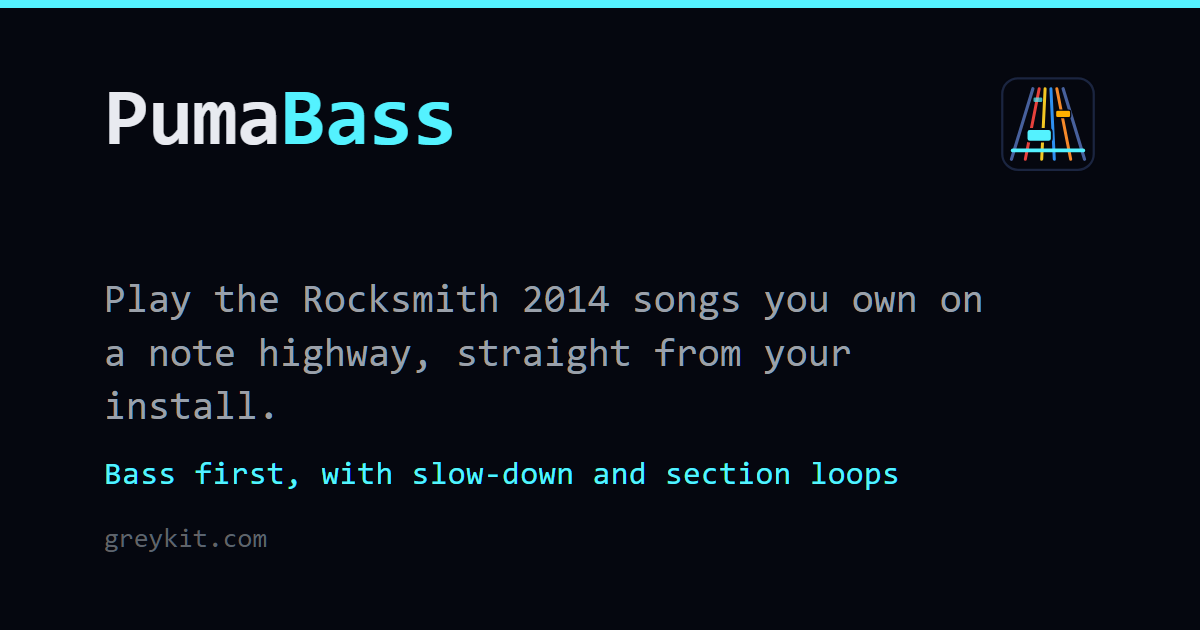
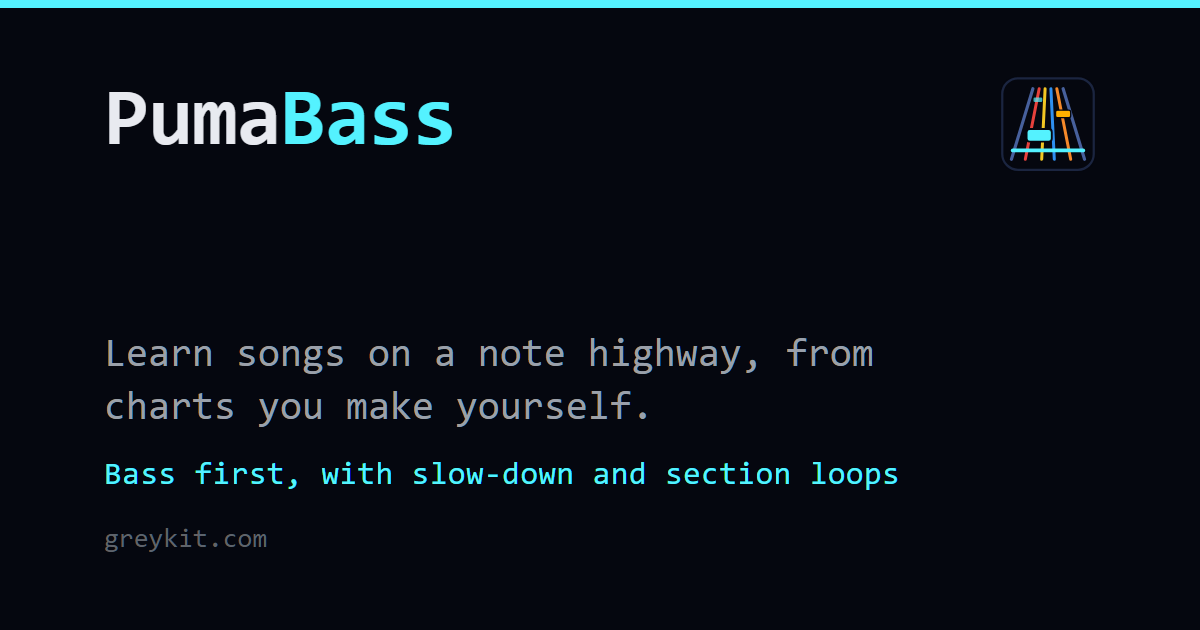
Making your own songs comes first: a guide, in the game and in the docs
Help has a Make your own tab: chart in Editor on Fire, pack with DLC
Builder (Wwise converts the audio), drop the .psarc in music/. The song
list's empty states, Settings and About open or point to it. Wherever
PumaBass says where songs come from, the order is your own, then
CustomsForge, then Rocksmith 2014's, last: the song list tabs, Help, the
web demo's popup, the README, PRODUCT.md, the page and app descriptions
and the share card. MAKING-SONGS.md is the full walkthrough.

A third preview server, on 8018, for when 8015 and 8016 are taken.

Changed region(s): [[0.0617, 0.5429, 0.74, 0.6635], [0.0617, 0.4524, 0.8325, 0.5127]]

diff --git a/web/js/help.js b/web/js/help.js
@@ -5,6 +5,16 @@ const keys = rows => `<table class="keys">${rows.map(([k, v]) => `<tr><td>${k}</
 // Each tab fits the TV without scrolling: two columns in a wide box (style.css: .help-cols).
 const cols = (left, right) => `<div class="help-cols"><div>${left}</div><div>${right}</div></div>`;
 
+// Making your own songs is what PumaBass is for; downloads come next, Rocksmith's own songs last.
+// The song list and Settings open Help at this tab (openHelp(MAKE)).
+export const MAKE = 'Make your own';
+const LINKS = {
+  eof: 'https://ignition4.customsforge.com/eof',
+  dlcBuilder: 'https://github.com/iminashi/Rocksmith2014.NET/releases',
+  wwise: 'https://www.audiokinetic.com/download/',
+  customsforge: 'https://customsforge.com/',
+};
+
 export const HELP = [
   ['Playing', cols(`
 <h3>Getting going</h3>
@@ -156,18 +166,39 @@ ${keys([
 zigzags for tremolo. A box round notes: play them together; an empty box, the same chord again (a bow tie or
 cross in it: palm-muted or fret-hand-muted). A faint tunnel behind a chord: keep holding its shape; brackets on
 the strings: an arpeggio, that shape picked a note at a time.</p>`)],
+  [MAKE, cols(`
+<p>The best songs to learn from are the ones you chart yourself: any song you have a recording of, written down
+the way you play it. Two free programs turn it into a song file (<code>.psarc</code>) for PumaBass.</p>
+<h3>1. Chart it: Editor on Fire</h3>
+<p><a href="${LINKS.eof}" target="_blank" rel="noopener">EOF</a> (Windows and Mac). Load your recording, line the
+beat up with it, and put the bass notes on the <b>PART REAL_BASS</b> track, by hand or from a Guitar Pro tab. In
+its preferences, turn on <b>Save separate Rocksmith 2 files</b>: saving then writes the part as an XML file.</p>
+<h3>2. Pack it: DLC Builder</h3>
+<p><a href="${LINKS.dlcBuilder}" target="_blank" rel="noopener">DLC Builder</a> (Windows, Mac and Linux). Give it
+the XML, your recording, a cover picture, the title and artist, and build: out comes the <code>.psarc</code>.
+It makes the simpler versions of each phrase that <b>Notes</b> plays, too.</p>`, `
+<h3>Before you pack: Wwise</h3>
+<p>DLC Builder converts your recording with <a href="${LINKS.wwise}" target="_blank" rel="noopener">Wwise</a>,
+free from Audiokinetic (versions 2019 to 2023). Install only its <b>Authoring</b> package, and run it once.</p>
+<h3>3. Play it</h3>
+<p>Put the <code>.psarc</code> in PumaBass's <code>music</code> folder and press <b>Rescan</b>: it's on the
+<b>Music</b> tab. Notes early or late against the record? Fix the beat in EOF and pack it again.</p>
+<h3>Or download songs</h3>
+<p>Short of time? <a href="${LINKS.customsforge}" target="_blank" rel="noopener">CustomsForge</a> has songs other
+people charted: they go in the <code>cdlc</code> folder. PumaBass is also compatible with Rocksmith 2014's own song
+files (<b>Your songs</b>).</p>`)],
   ['Your songs', cols(`
 <h3>Three folders, three libraries</h3>
-<p>PumaBass plays Rocksmith 2014 song files (<code>.psarc</code>) from three folders beside it, each a tab on
-the song list:</p>
+<p>PumaBass plays song files (<code>.psarc</code>) from three folders beside it, each a tab on the song
+list:</p>
 ${keys([
-    ['bundles', 'Rocksmith\'s own song sets: the disc songs, the Rocksmith 1 packs'],
-    ['cdlc', 'custom songs you download, from CustomsForge say'],
-    ['music', 'songs you made, and recordings for charts with no audio'],
+    ['music', 'songs you made (<b>Make your own</b>), and recordings for charts with no audio'],
+    ['cdlc', 'songs you download, from CustomsForge say'],
+    ['bundles', 'Rocksmith 2014\'s own song sets: the disc songs, the Rocksmith 1 packs'],
   ])}
 <p>Folders inside them are read too. Press <b>Rescan</b> (under the song list, or in Settings) after adding
 songs. A song in two places is listed once.</p>
-<p>The disc songs need both <code>songs.psarc</code> (their charts) and <code>audio.psarc</code> (their
+<p>Rocksmith's disc songs need both <code>songs.psarc</code> (their charts) and <code>audio.psarc</code> (their
 audio).</p>
 <h3>The demo song</h3>
 <p><b>Prowl</b>, on the <b>Demo</b> tab, comes with PumaBass: a riff written for it, to play before your own
@@ -186,6 +217,7 @@ then; the button at its foot shows them.</p>`)],
 
 export const ABOUT = `
 <p><b>PumaBass</b> is a RockSmith-style tabulature player. At its core, it takes tab notation, turns it sideways,
-and synchronizes it to the music. You can use CustomsForge PSARC files or make your own using a simple synchronizer.
+and synchronizes it to the music. Make your own PSARC files (<b>Help &rarr; Make your own</b>) or download them
+from CustomsForge; it's also compatible with Rocksmith 2014's.
 It can also "score" your playing, if you really like being judged by a machine.</p>
 <p class="gk-credit">Developed entirely with Claude Code. Built by <a href="https://greykit.com/" target="_blank" rel="noopener">greykit.com</a></p>`;

diff --git a/web/js/library-screen.js b/web/js/library-screen.js
@@ -5,6 +5,7 @@ import { alertSheet } from './title.js';
 import { api, WEB, SERVER_API, notInDemo } from './api.js';
 import { $, esc, toast, screen, songs, info, setScreen, setLibrary, ownSongs } from './core.js';
 import { DEMO } from './demo.js';
+import { MAKE } from './help.js';
 import { showTuner } from './instrument.js';
 import { showTitle, leaveTitle, openHelp, openSettings, partsLabel } from './menu.js';
 import { openSong, scoreMode } from './player.js';
@@ -131,9 +132,9 @@ export function showSongInList(id) {
  * tab (your own Rocksmith folder: none until you choose one); All always does. */
 export const LIBRARIES = [
   ['all', 'All'],
-  ['bundles', 'Bundles', 'Rocksmith song sets'],
-  ['cdlc', 'CDLC', 'custom songs you download'],
   ['music', 'Music', 'songs you made, and your recordings'],
+  ['cdlc', 'CDLC', 'custom songs you download'],
+  ['bundles', 'Bundles', 'Rocksmith 2014 song sets'],
   ['folder', 'Rocksmith folder', 'the Rocksmith folder chosen in Settings'],
   ['demo', 'Demo', 'the song that comes with PumaBass'],
 ];
@@ -194,7 +195,7 @@ export function renderLibrary() {
   const keepId = keep && keep.dataset.id, keepShelf = keep && keep.classList.contains('shelved');
   const lib = LIBRARIES.find(([k]) => k === prefs.library);
   el.innerHTML = list.length ? '' : !songs.length
-    ? `<div class="empty"><p>No songs yet. PumaBass plays Rocksmith 2014 song files (<code>.psarc</code>). Put them in its <code>bundles</code>, <code>cdlc</code> or <code>music</code> folder and Rescan, or show it a Rocksmith folder.</p><button class="primary" data-act="choose">Choose a Rocksmith folder</button></div>`
+    ? `<div class="empty"><p>No songs yet. Make your own song files (<code>.psarc</code>) and put them in PumaBass's <code>music</code> folder, or download some into <code>cdlc</code>, then Rescan. It's also compatible with Rocksmith 2014's: put them in <code>bundles</code>, or show it a Rocksmith folder.</p><button class="primary" data-act="make">Make your own songs</button> <button data-act="choose">Choose a Rocksmith folder</button></div>`
     : `<div class="empty">${q ? 'No songs match that search.' : prefs.favOnly ? 'No favorites here yet. Press <kbd>F</kbd> on a song, or its heart, to add it.'
       : prefs.library !== 'all' && !ofType.length
         ? `None of the songs in ${esc(lib[1])} have ${esc(prefs.type)} parts. Choose All parts above, or another library.`
@@ -238,8 +239,8 @@ export function renderLibrary() {
     const hint = document.createElement('div');
     hint.className = 'empty';
     hint.innerHTML = WEB
-      ? `<p>This is PumaBass's web demo, with one song written for it. On your own computer, PumaBass plays PSARC song packages that you make or provide, and can be pointed at your Rocksmith 2014 folder.</p><button class="primary" data-act="choose">Choose a Rocksmith folder</button>`
-      : `<p>That's the demo song, to play while you set up. PumaBass plays Rocksmith 2014 song files (<code>.psarc</code>) too: put them in its <code>bundles</code>, <code>cdlc</code> or <code>music</code> folder and Rescan, or show it a Rocksmith folder.</p><button class="primary" data-act="choose">Choose a Rocksmith folder</button>`;
+      ? `<p>This is PumaBass's web demo, with one song written for it. On your own computer, PumaBass plays song files (<code>.psarc</code>) that you make yourself, and is also compatible with CustomsForge and Rocksmith 2014 songs.</p><button class="primary" data-act="make">Make your own songs</button>`
+      : `<p>That's the demo song, to play while you set up. Make your own song files (<code>.psarc</code>) and put them in PumaBass's <code>music</code> folder, or download some into <code>cdlc</code>, then Rescan. It's also compatible with Rocksmith 2014's: put them in <code>bundles</code>, or show it a Rocksmith folder.</p><button class="primary" data-act="make">Make your own songs</button> <button data-act="choose">Choose a Rocksmith folder</button>`;
     frag.appendChild(hint);
   }
   el.appendChild(frag);
@@ -266,6 +267,7 @@ export function heartRow(row) {
 }
 
 $('song-list').addEventListener('click', e => {
+  if (e.target.closest('[data-act=make]')) return openHelp(MAKE);
   if (e.target.closest('[data-act=choose]')) return pickLibrary();
   if (e.target.closest('[data-fav]')) { heartRow(e.target.closest('.song')); return; }
   const row = e.target.closest('.song');

diff --git a/web/js/menu.js b/web/js/menu.js
@@ -3,7 +3,7 @@
 import { formatTime } from './chart.js';
 import { mountTitle, alertSheet, confirmSheet } from './title.js';
 import { mountScene } from './scene.js';
-import { HELP, ABOUT } from './help.js';
+import { HELP, ABOUT, MAKE } from './help.js';
 import { api, WEB, notInDemo } from './api.js';
 import { $, highway, esc, fmtMs, songs, ownSongs, info, setScreen } from './core.js';
 import { inputStatus, chooseInput, showTuner } from './instrument.js';
@@ -165,7 +165,7 @@ export function settingsHTML() {
   // Two columns, so it all fits on the TV without scrolling (style.css: .set-cols): what
   // PumaBass is set up with, and how you like to play. Forget everything on its own at the foot.
   return `<div class='set-cols'><section class='set-col'><h3>App</h3><div class='set-grid'>
-${row('Songs', `<p class='set-val'>${have}, from the bundles, cdlc and music folders${info.libraryDir ? ' and your Rocksmith folder' : ''}</p><p class='set-val'>${folder}</p><div class='gk-row' title='Song files (.psarc) go in the bundles, cdlc or music folder beside PumaBass. A Rocksmith 2014 folder of your own is optional: its songs get their own tab. Rescan after adding songs.'><button data-set='rescan'>Rescan</button><button data-set='library'>${info.libraryDir ? 'Change Rocksmith folder' : 'Choose Rocksmith folder'}</button>${info.libraryDir ? "<button data-set='unlibrary'>Remove it</button>" : ''}</div>`)}
+${row('Songs', `<p class='set-val'>${have}, from the music, cdlc and bundles folders${info.libraryDir ? ' and your Rocksmith folder' : ''}</p><p class='set-val'>${folder}</p><div class='gk-row' title='Song files (.psarc) you make go in the music folder beside PumaBass, downloads in cdlc. Rocksmith 2014 songs work too: in bundles, or a Rocksmith folder of your own on its own tab. Rescan after adding songs.'><button data-set='make'>Make your own</button><button data-set='rescan'>Rescan</button><button data-set='library'>${info.libraryDir ? 'Change Rocksmith folder' : 'Choose Rocksmith folder'}</button>${info.libraryDir ? "<button data-set='unlibrary'>Remove it</button>" : ''}</div>`)}
 ${row('Input', `<p class='set-val'>${inputStatus()}</p><div class='gk-row'><button data-set='input'>Choose input</button></div>`)}
 ${row('Tuner', `<div class='gk-row'><button data-set='tuner' title='Tune to the song with the Real Tone Cable; it opens by itself when a song needs another tuning'>Open tuner</button></div>`)}
 ${row('Sync', `<div class='gk-row'><button data-set='sync' title='Line up the sound and the picture, and the cable'>Run sync</button><span class='set-val inline'>${
@@ -226,6 +226,10 @@ export async function settingsClick(b, sheet) {
         await loadLibrary();
       } catch (e) { sheet.close(); await alertSheet(e.message, "Can't remove the Rocksmith folder"); return; }
       break;
+    case 'make':
+      sheet.close();
+      openHelp(MAKE);
+      return;
     case 'input':
       sheet.close();
       chooseInput();
@@ -307,8 +311,8 @@ function openSheet(name, draw, onClick) {
 }
 
 /* Help from the song list or the player. */
-export function openHelp() {
-  let tab = 0;
+export function openHelp(start) {
+  let tab = Math.max(0, HELP.findIndex(([t]) => t === start));
   const sheet = openSheet('Help', () => `<div class="gk-tabs" role="tablist">${HELP.map(([t], i) => `<button role="tab" data-tab="${i}" aria-selected="${i === tab}" aria-pressed="${i === tab}">${esc(t)}</button>`).join('')}</div>
       <div class="gk-body">${HELP[tab][1]}</div>`, (b, sh) => {
     if (b.dataset.tab !== undefined) { tab = Number(b.dataset.tab); sh.refresh(); sh.el.querySelector(`[data-tab="${tab}"]`).focus(); }

diff --git a/index.html b/index.html
@@ -4,23 +4,23 @@
 <meta charset="utf-8">
 <meta name="viewport" content="width=device-width,initial-scale=1,viewport-fit=cover">
 <title>PumaBass</title>
-<meta name="description" content="Play the Rocksmith 2014 songs you own on a note highway, straight from your install: bass first, with slow-down, section loops and Rocksmith&#x27;s own difficulty levels.">
+<meta name="description" content="Learn songs on a note highway, from charts you make yourself: bass first, with slow-down, section loops and difficulty levels. Also plays CustomsForge and Rocksmith 2014 song files.">
 <meta name="theme-color" content="#05070f">
 <meta name="color-scheme" content="dark">
 <meta name="referrer" content="no-referrer">
 <meta property="og:title" content="PumaBass">
-<meta property="og:description" content="Play the Rocksmith 2014 songs you own on a note highway, straight from your install: bass first, with slow-down, section loops and Rocksmith&#x27;s own difficulty levels.">
+<meta property="og:description" content="Learn songs on a note highway, from charts you make yourself: bass first, with slow-down, section loops and difficulty levels. Also plays CustomsForge and Rocksmith 2014 song files.">
 <meta property="og:type" content="website">
 <meta property="og:image" content="https://greykit.com/games/pumabass/og.png">
 <meta property="og:image:width" content="1200">
 <meta property="og:image:height" content="630">
-<meta property="og:image:alt" content="Play the Rocksmith 2014 songs you own on a note highway, straight from your install: bass first, with slow-down, section loops and Rocksmith&#x27;s own difficulty levels.">
+<meta property="og:image:alt" content="Learn songs on a note highway, from charts you make yourself: bass first, with slow-down, section loops and difficulty levels. Also plays CustomsForge and Rocksmith 2014 song files.">
 <meta property="og:url" content="https://greykit.com/games/pumabass/">
 <meta name="twitter:card" content="summary_large_image">
 <meta name="twitter:title" content="PumaBass">
-<meta name="twitter:description" content="Play the Rocksmith 2014 songs you own on a note highway, straight from your install: bass first, with slow-down, section loops and Rocksmith&#x27;s own difficulty levels.">
+<meta name="twitter:description" content="Learn songs on a note highway, from charts you make yourself: bass first, with slow-down, section loops and difficulty levels. Also plays CustomsForge and Rocksmith 2014 song files.">
 <meta name="twitter:image" content="https://greykit.com/games/pumabass/og.png">
-<meta name="twitter:image:alt" content="Play the Rocksmith 2014 songs you own on a note highway, straight from your install: bass first, with slow-down, section loops and Rocksmith&#x27;s own difficulty levels.">
+<meta name="twitter:image:alt" content="Learn songs on a note highway, from charts you make yourself: bass first, with slow-down, section loops and difficulty levels. Also plays CustomsForge and Rocksmith 2014 song files.">
 <link rel="manifest" href="manifest.webmanifest">
 <link rel="apple-touch-icon" href="apple-touch-icon.png">
 <link rel="icon" type="image/svg+xml" href="icon.svg">

diff --git a/web/js/api.js b/web/js/api.js
@@ -8,7 +8,7 @@ import { alertSheet } from './title.js';
  * (notInDemo); Quit isn't there at all. */
 export const WEB = typeof document !== 'undefined' && document.documentElement.dataset.edition === 'web';
 export function notInDemo(what) {
-  return alertSheet(`${what} isn't in the web demo. On your own computer, PumaBass plays PSARC song packages that you make or provide, and can be pointed at your Rocksmith 2014 folder.`, 'Not available in the demo');
+  return alertSheet(`${what} isn't in the web demo. On your own computer, PumaBass plays song files (PSARC) that you make yourself, and is also compatible with CustomsForge and Rocksmith 2014 songs.`, 'Not available in the demo');
 }
 
 

diff --git a/MAKING-SONGS.md b/MAKING-SONGS.md
@@ -1,0 +1,69 @@
+# Making your own songs
+
+PumaBass is made for playing songs you chart yourself: any song you have a recording of, written down
+the way you want to learn it. A song for PumaBass is one file, a `.psarc`, holding the chart and the
+audio. Two free programs make one, the same two the custom-song community uses:
+
+| Step | Program | Runs on | Does |
+| --- | --- | --- | --- |
+| 1 | [Editor on Fire](https://ignition4.customsforge.com/eof) (EOF) | Windows, Mac | charting: you place the notes against the recording |
+| 2 | [DLC Builder](https://github.com/iminashi/Rocksmith2014.NET/releases) | Windows, Mac, Linux | packing: chart + audio + cover + names into a `.psarc` |
+| – | [Wwise](https://www.audiokinetic.com/download/) (Audiokinetic) | Windows (Linux via Wine) | used by DLC Builder to convert the audio; free |
+
+In the game, **Help → Make your own** has the short version of these steps, and **Make your own songs**
+on the song list opens it.
+
+## Before you start
+
+- **A recording** of the song: wav, ogg or mp3.
+- **The part**: by ear, or a tab to start from. EOF imports Guitar Pro files (`.gp3`–`.gp5`, `.gpx`).
+- **A cover picture**, square, ideally 256×256 or larger: `cover.png`.
+- **Wwise**, version 2019, 2021, 2022 or 2023. In the Audiokinetic Launcher, install only the
+  **Authoring** package, then open Wwise once; DLC Builder's audio conversion may not work until you
+  have. DLC Builder finds it on its own on Windows; on Linux it runs Wwise's console program under
+  Wine (set its path in DLC Builder's configuration).
+
+## 1. Chart it in Editor on Fire
+
+1. Create a new project from your recording.
+2. **Make a tempo map**: line EOF's beat markers up with the beats of the recording. This is what keeps
+   the notes in time with the music, so take care over it; a song with a steady tempo needs only the
+   first beat placed and the tempo set.
+3. Choose the **PART REAL_BASS** track and place the notes: string and fret for each, with slides,
+   bends, hammer-ons, mutes and the rest where you play them. Or import a Guitar Pro tab into that
+   track and correct it.
+4. Mark the **sections** (intro, verse, chorus, solo…). PumaBass's bar along the bottom, its loops and
+   the riff repeater all work by section.
+5. In EOF's Import/Export preferences, turn on **Save separate Rocksmith 2 files**. Saving the project
+   now also writes the bass part as a Rocksmith 2014 arrangement, an `.xml` file in the project folder.
+
+## 2. Pack it in DLC Builder
+
+1. Start a new project. Fill in the title, artist, album and year: PumaBass's song list shows them.
+2. **Add the arrangement**: the bass `.xml` from EOF's project folder. Check that it's a Bass
+   arrangement, with the tuning you played in.
+3. **Audio**: your recording. DLC Builder converts it with Wwise, and can make the short preview clip
+   too.
+4. **Cover**: `cover.png`.
+5. The **tone** matters only to Rocksmith: PumaBass plays your bass as it comes from the cable, so
+   whatever DLC Builder starts you with is fine.
+6. **Build a release.** The packages land in the project folder, a PC one (`_p.psarc`) and a Mac one
+   (`_m.psarc`); either plays. DLC Builder also writes the simpler difficulty levels if the chart has
+   none, which PumaBass's **Notes** slider uses.
+
+Save the DLC Builder project beside the EOF one: after fixing the chart, a rebuild is open, build.
+
+## 3. Play it
+
+Put the `.psarc` in PumaBass's `music/` folder and press **Rescan**. It's on the **Music** tab.
+
+- Notes early or late all the way through: run **Sync** first, as that is your speakers and screen.
+  Early or late for this song alone: fix the tempo map in EOF and build again, or nudge the song's
+  audio offset in the Mix (`M`).
+- Notes drift out of time partway: the tempo map is off there. Fix those beats in EOF.
+
+## Or download songs
+
+Short of time? [CustomsForge](https://customsforge.com/) has songs other people have charted. Put them
+in `cdlc/`. PumaBass is also compatible with Rocksmith 2014's own song files: see
+[Add your songs](README.md#add-your-songs) in the README.

diff --git a/README.md b/README.md
@@ -1,9 +1,11 @@
 # PumaBass
 
-Play the Rocksmith 2014 songs you already own on a note highway, without Steam or Rocksmith. Bass
-first; lead and rhythm guitar parts play too. You give PumaBass your own song files (`.psarc`) and it
-plays them in your browser; until then, there's a demo song written for it to play. Runs on Windows
-and Linux, from a desk or from the couch on a TV. Built by [greykit.com](https://greykit.com).
+Learn songs on a note highway, from charts you make yourself. Bass first; lead and rhythm guitar parts
+play too. Chart any song you have a recording of with free tools, and PumaBass plays it in your browser,
+in time with the music ([Making your own songs](MAKING-SONGS.md)); until then, there's a demo song
+written for it to play. It also plays songs downloaded from CustomsForge, and is compatible with
+Rocksmith 2014's song files. Runs on Windows and Linux, from a desk or from the couch on a TV. Built by
+[greykit.com](https://greykit.com).
 
 **Try the demo in your browser** at [greykit.com/games/pumabass](https://greykit.com/games/pumabass/),
 with nothing to install.
@@ -54,12 +56,16 @@ below 50% it's quarter notes, for a first go.
 
 ![The song list sorted by plays: All, Bundles and CDLC tabs, the Bass part chosen, each song with its difficulty bars, tuning, plays, times finished and length, and a heart on the favorites](screenshots/songs.png)
 
-Put your Rocksmith 2014 song files in these folders beside PumaBass. Each gets its own tab on the song
-list once it has songs:
+**Make your own.** Chart a song in Editor on Fire and pack it with DLC Builder, both free:
+[MAKING-SONGS.md](MAKING-SONGS.md) walks through it. In the game, **Help → Make your own** has the short
+version.
 
-- `bundles/`: Rocksmith's own song sets, such as the on-disc songs and the Rocksmith 1 import packs.
-- `cdlc/`: custom songs you download, such as from CustomsForge.
+Song files (`.psarc`) go in these folders beside PumaBass. Each gets its own tab on the song list once
+it has songs:
+
 - `music/`: songs you made, and recordings for charts that have no audio (below).
+- `cdlc/`: songs you download, such as from CustomsForge.
+- `bundles/`: Rocksmith 2014's own song sets, such as the on-disc songs and the Rocksmith 1 import packs.
 
 Or point PumaBass at a Rocksmith folder you already have (a whole Rocksmith install, a copied `dlc`
 folder, a USB stick) in **Settings → Songs**; it gets a tab of its own, and nothing in it is changed.
@@ -67,7 +73,7 @@ Folders inside these folders are read too, and a song in more than one place is 
 **Rescan** after adding songs.
 
 - PC (`_p.psarc`) and Mac (`_m.psarc`) files both work.
-- The songs on the Rocksmith disc keep their charts in `songs.psarc` and their audio in
+- Rocksmith's disc songs keep their charts in `songs.psarc` and their audio in
   `audio.psarc`: copy both.
 - The Rocksmith 1 DLC import pack (`rs1compatibilitydlc_p.psarc`) keeps its audio in the disc's
   `songs.psarc`: copy that too, or its songs have no audio.

diff --git a/PRODUCT.md b/PRODUCT.md
@@ -8,19 +8,20 @@ web
 
 ## Users
 
-Bass players (and some guitar players) who own Rocksmith 2014 songs and want to play them without
-Steam or Rocksmith itself. They run PumaBass on their own computer and play it on a living-room TV
+Bass players (and some guitar players) who want to learn songs on a note highway: songs they chart
+themselves first, then downloads from CustomsForge, and Rocksmith 2014 songs they already own. They run PumaBass on their own computer and play it on a living-room TV
 from the sofa, about three metres away, bass in hand, with a keyboard (often one hand free at best)
 and the bass plugged into a Real Tone Cable. "Computer, up close" is the second setting.
 
 The first player is the developer, on a Linux set-top PC under the TV; the product is meant, in time,
-for other Rocksmith owners running it on their own PCs and TVs, so a stranger's first visit (no songs
+for other players running it on their own PCs and TVs, so a stranger's first visit (no songs
 folder chosen, no cable picked, no favorites) has to work as well as the developer's hundredth.
 
 ## Product Purpose
 
-A note highway for the Rocksmith 2014 songs the player already owns: point it at a folder of
-`.psarc` files and it plays them, bass first, with lead and rhythm guitar charts too. It is for
+A note highway for songs the player charts themselves (EOF and DLC Builder, free; MAKING-SONGS.md),
+bass first, with lead and rhythm guitar charts too. It also plays CustomsForge downloads, and is
+compatible with Rocksmith 2014's song files: point it at a folder of `.psarc` files and it plays them. It is for
 practice and enjoyment: learning songs, slowing them down, looping the hard part, bringing it back up
 to speed, tuning, and learning to read standard notation and tab as the part scrolls past.
 
@@ -29,10 +30,12 @@ practises the parts that went badly, and can read the music a little better each
 
 ## Positioning
 
-It plays the player's own Rocksmith charts and audio, read straight from their song files, with
-Rocksmith's own difficulty levels, on a highway that keeps Rocksmith's string colours, and adds what
+It plays the player's own charts and audio, read straight from their song files (the `.psarc` format
+the custom-song community already makes, so the free charting tools work unchanged), with each chart's
+difficulty levels, on a highway that keeps Rocksmith's string colours, and adds what
 Rocksmith never had: standard notation over tab, scrolling with the song. Everything runs on the
-player's computer; nothing leaves it. Not affiliated with Ubisoft.
+player's computer; nothing leaves it. When it describes where songs come from, the order is always: make your own, then download from
+CustomsForge, then Rocksmith 2014's own, last. Not affiliated with Ubisoft.
 
 ## Operating Context
 
